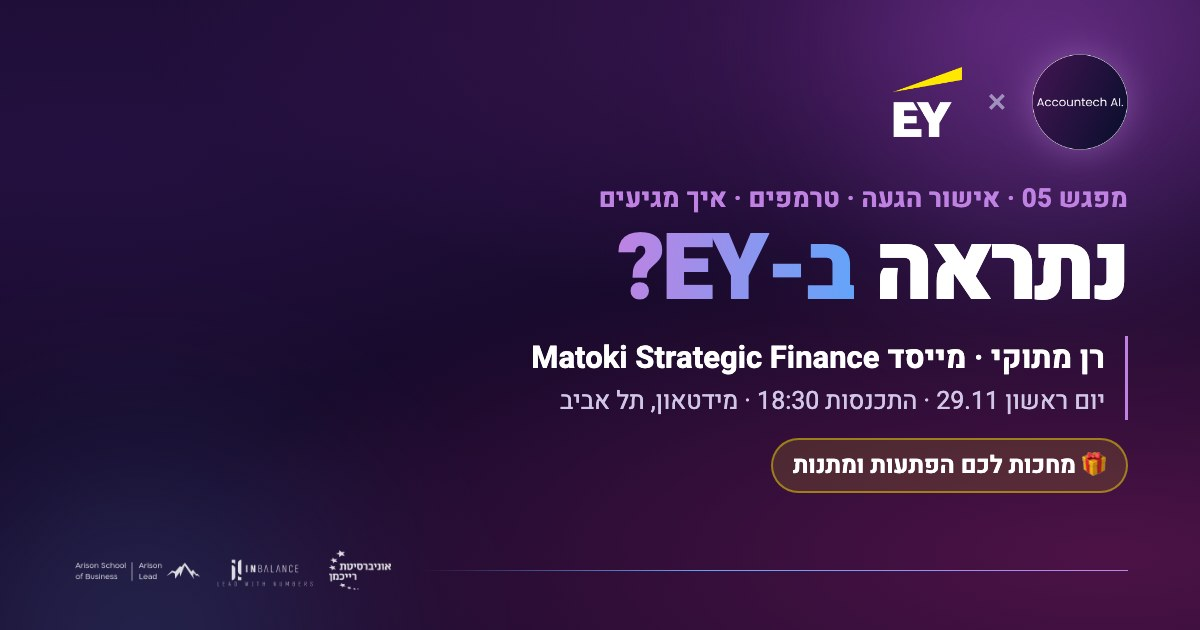
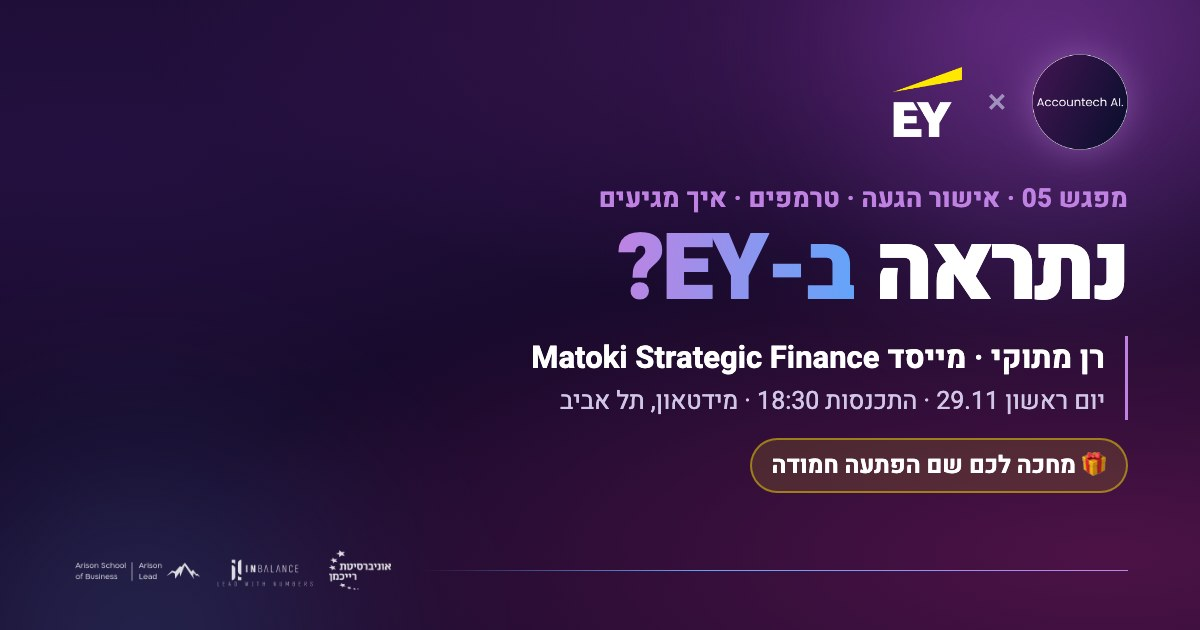
RSVP: gift line → 'מחכה לכם שם הפתעה חמודה' (page, share text, og card)

Changed region(s): [[0.6167, 0.6937, 0.8633, 0.7841]]

diff --git a/rsvp/index.html b/rsvp/index.html
@@ -12,7 +12,7 @@
 <meta property="og:site_name" content="Accountech AI">
 <meta property="og:locale" content="he_IL">
 <meta property="og:title" content="מפגש 5 ב-EY · כל מה שצריך">
-<meta property="og:description" content="רן מתוקי · יום ראשון 29.11 · התכנסות 18:30 במידטאון. אישור הגעה, על מה נדבר, איך מגיעים, חניה וטרמפים. ומחכות לכם הפתעות ומתנות 🎁">
+<meta property="og:description" content="רן מתוקי · יום ראשון 29.11 · התכנסות 18:30 במידטאון. אישור הגעה, על מה נדבר, איך מגיעים, חניה וטרמפים. ומחכה לכם שם הפתעה חמודה 🎁">
 <meta property="og:url" content="https://accountech-ai.github.io/rsvp/">
 <meta property="og:image" content="https://accountech-ai.github.io/rsvp/og.jpg">
 <meta property="og:image:width" content="1200">
@@ -346,7 +346,7 @@ input:focus,select:focus{border-color:var(--lilac); background-color:rgba(255,25
 
     <button type="button" class="gift rise" id="gift" aria-live="polite">
       <span class="box" aria-hidden="true"><i class="bd"></i><i class="rb"></i><i class="ld"></i><i class="bw"></i></span>
-      <span class="gtxt"><b id="giftT">מחכות לכם הפתעות ומתנות</b><small id="giftS">הקישו על הקופסה</small></span>
+      <span class="gtxt"><b id="giftT">מחכה לכם שם הפתעה חמודה</b><small id="giftS">הקישו על הקופסה</small></span>
     </button>
   </header>
 
@@ -386,7 +386,7 @@ input:focus,select:focus{border-color:var(--lilac); background-color:rgba(255,25
         <img class="disc" id="doneDisc" alt="">
         <h3 id="doneTitle"></h3>
         <p id="doneSub"></p>
-        <p class="gline" id="doneGift" hidden>🎁 מחכות לכם הפתעות ומתנות</p>
+        <p class="gline" id="doneGift" hidden>🎁 מחכה לכם שם הפתעה חמודה</p>
         <button type="button" class="link" id="change">שינוי תשובה</button>
       </div>
     </div>
@@ -608,7 +608,7 @@ $("gift").addEventListener("click", () => {
   if (g.classList.contains("open")) return;
   g.classList.add("open");
   $("giftT").innerHTML = "את זה תגלו ב-<bdi>29.11</bdi> 🎁";
-  $("giftS").textContent = "הפתעות ומתנות מחכות לכם במפגש";
+  $("giftS").textContent = "הפתעה חמודה מחכה לכם במפגש";
   if (reduce) return;
   const box = g.querySelector(".box").getBoundingClientRect(), gr = g.getBoundingClientRect();
   const cols = ["#FFE600", "#C082E2", "#61A5FA", "#FFFFFF", "#7FE3C1"];
